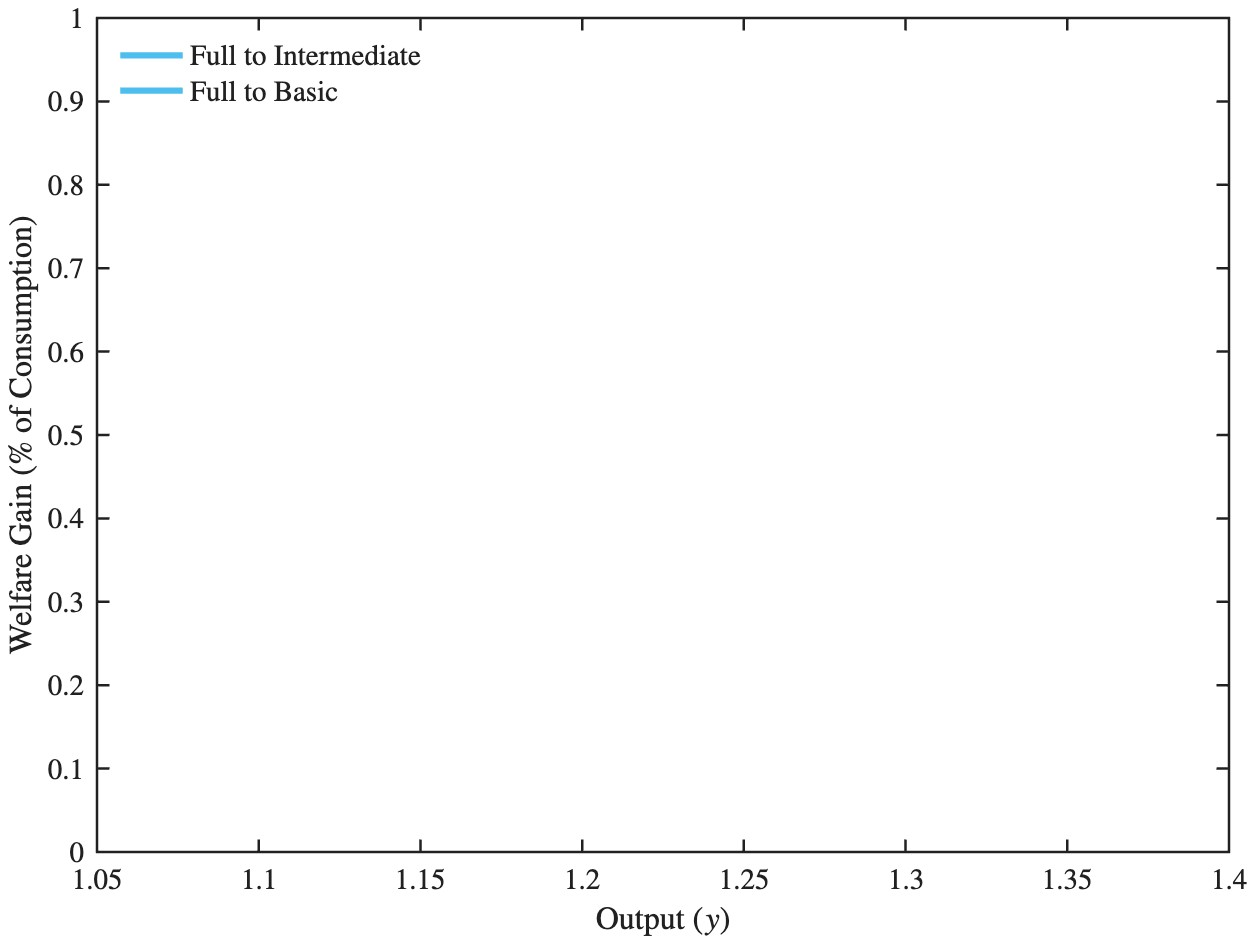
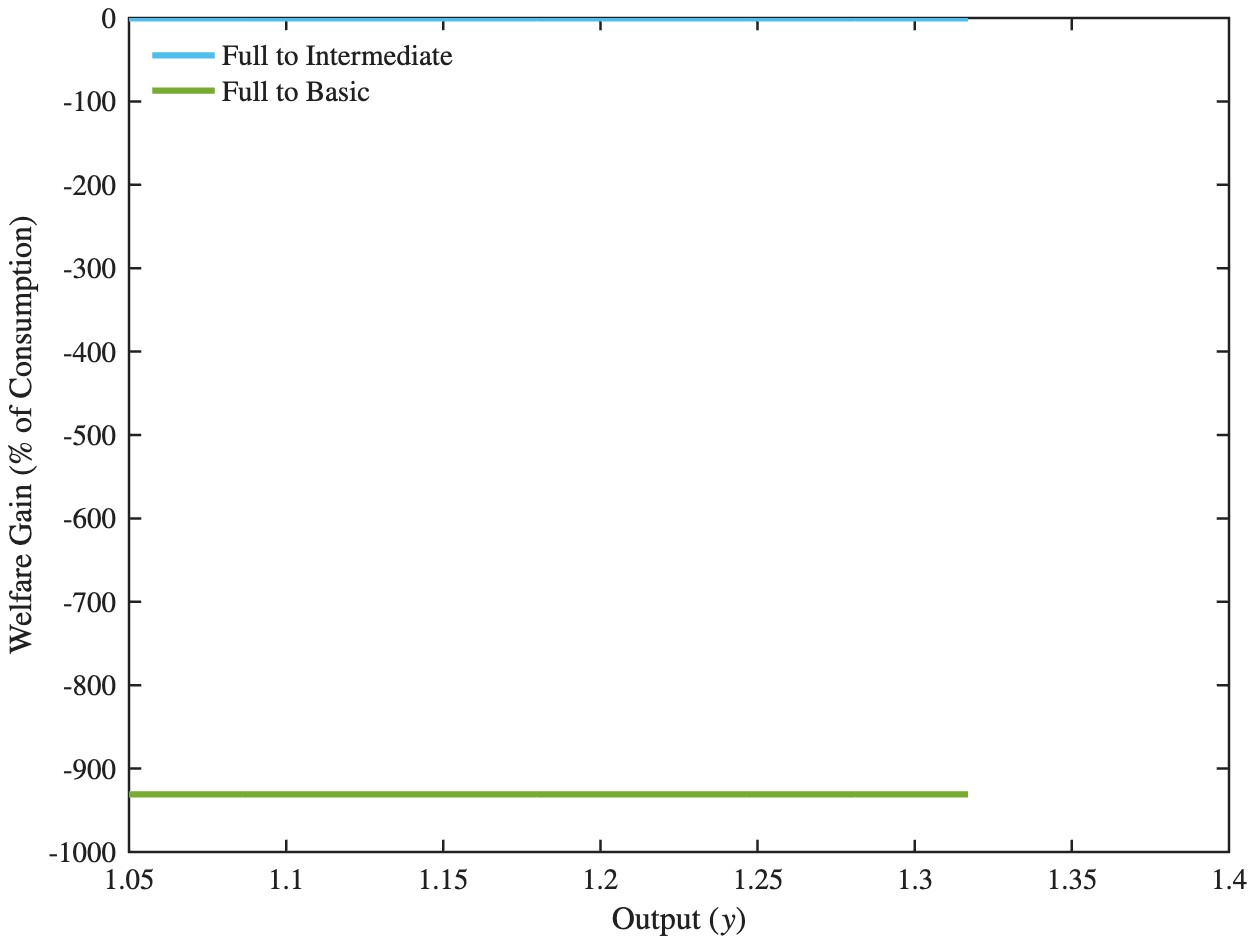
Fix a figure bug I introduced; verify plotting changes old-vs-new on identical data
Preallocating value_full and value_full_debt was wrong. They are assigned after
the workspace is saved and cleared, so creating them early wrote zeros into
oil_*.mat; those reload as 1-by-y_num rows, and the welfare gain
  100*((value_basic_debt - value_full_debt)./value_full_debt)
then broadcasts to y_num-by-y_num and evaluates to -Inf. FIGURE7 in the previous
commit was wrong because of this. Those two arrays are 21 elements and were
never a performance concern; they are no longer preallocated, and the reason is
recorded in the script.

Caught by the test this commit also adds: solve one economy at p_num = 25 on the
corrected common grid, then run BOTH the original plotting script from the
submitted-baseline tag and the fixed script on that identical data. Before the
fix, 9 of 10 figures matched and FIGURE7 differed by maxdiff 255. After, all ten
match at maxdiff 0.0.

This is a stronger check than the earlier one. Validating on submitted-baseline
inputs only exercises p_num = 7 with the original economy dimensions; this
exercises the corrected grid and the p_vol_num = 5 comparison economy, which is
where the defect lived. A symmetric workspace diff also showed the old and new
runs differed by exactly two variables -- the two at fault.

Figures regenerated. Differences from the published set are unchanged for
FIGURE2-6 and FIGURE7 is now meaningful rather than -Inf.

Claude-Session: https://claude.ai/code/session_017rjGUFtN3rRvLQEeLusJ9z

diff --git a/model/working_graphs_dec29.m b/model/working_graphs_dec29.m
@@ -133,8 +133,11 @@ yield_long       = zeros(b_num, y_num, p_num, p_vol_num);
 yield_rf         = zeros(b_num, y_num, p_num, p_vol_num);
 yield_rf_new     = zeros(b_num, y_num, p_num, p_vol_num);
 tm_p             = zeros(p_num, p_num, p_vol_num);
-value_full       = zeros(1, y_num);
-value_full_debt  = zeros(1, y_num);
+% NOT preallocated here: value_full and value_full_debt. They are assigned far
+% below, AFTER this workspace is saved and cleared, so creating them here only
+% writes zeros into oil_*.mat. Those then reload as 1-by-y_num rows and turn the
+% welfare gain into a y_num-by-y_num broadcast. They are 21 elements; growing
+% them costs nothing.
 dev_matrix = zeros(b_num,y_num, p_num, p_vol_num);
 q_paid_matrix = zeros(b_num,y_num, p_num, p_vol_num);
 q_def_free_new_matrix = zeros(b_num, y_num,p_num, p_vol_num);

diff --git a/results/figures_corrected/README.md b/results/figures_corrected/README.md
@@ -30,15 +30,21 @@ most directly affected.
 
 ## Plotting fixes (all verified output-neutral)
 
-Running the pipeline on `submitted-baseline` reproduces all ten published figures
-**pixel-identically** both before and after each of these, so none of them alters results:
+Two independent checks confirm these are output-neutral: (i) on `submitted-baseline`
+inputs the pipeline reproduces all ten published figures **pixel-identically**; and (ii) on
+an identical corrected-model solve (`p_num = 25`), the original script from the
+`submitted-baseline` tag and the fixed script produce **all ten figures pixel-identically**
+(maxdiff 0.0). The second check is what caught the `value_full` defect noted below.
 
 1. ASCII `load` replaced by a `textscan` reader. MATLAB's `load` is not the bottleneck it
    appeared to be (2 s for a 219 MB file), but the reader is kept for robustness.
-2. **Eight arrays preallocated** — `spread_matrix`, `spread_matrix_rw`, `yield_long`,
-   `yield_rf`, `yield_rf_new`, `tm_p`, `value_full`, `value_full_debt` were assigned inside
-   a 2.9-million-iteration loop without being created first, so MATLAB grew and copied them
-   on every pass.
+2. **Six arrays preallocated** — `spread_matrix`, `spread_matrix_rw`, `yield_long`,
+   `yield_rf`, `yield_rf_new`, `tm_p` were assigned inside a 2.9-million-iteration loop
+   without being created first, so MATLAB grew and copied them on every pass.
+   `value_full` and `value_full_debt` are deliberately **not** preallocated: they are
+   assigned after this workspace is saved and cleared, so creating them early writes zeros
+   into `oil_*.mat`, which reload as `1×y_num` rows and turn the welfare gain into a
+   `y_num×y_num` broadcast of `-Inf`. That corrupted FIGURE7 in an earlier pass.
 3. **`i_matrix` hoisted out of the loop nest.** `i_matrix = 1./q_matrix` plus a
    logical-indexed NaN assignment — over the whole b×y×p×v array — ran inside the
    *innermost* loop, i.e. ~8e12 element operations. This was the dominant cost.
